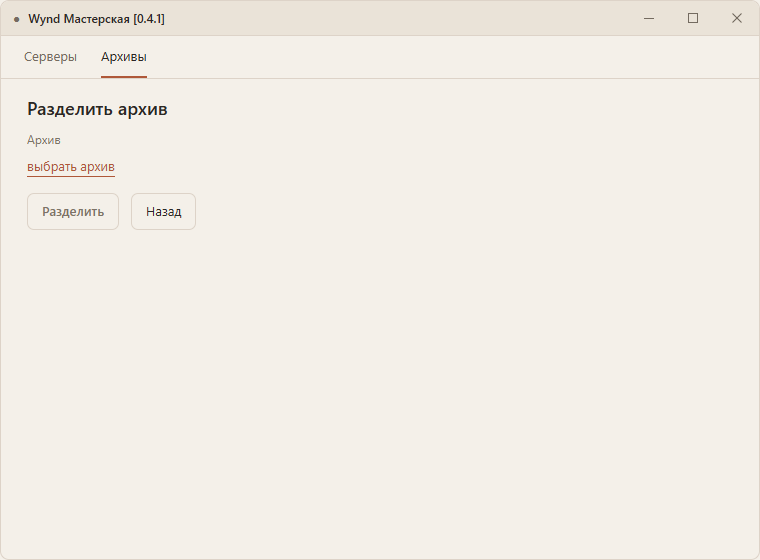
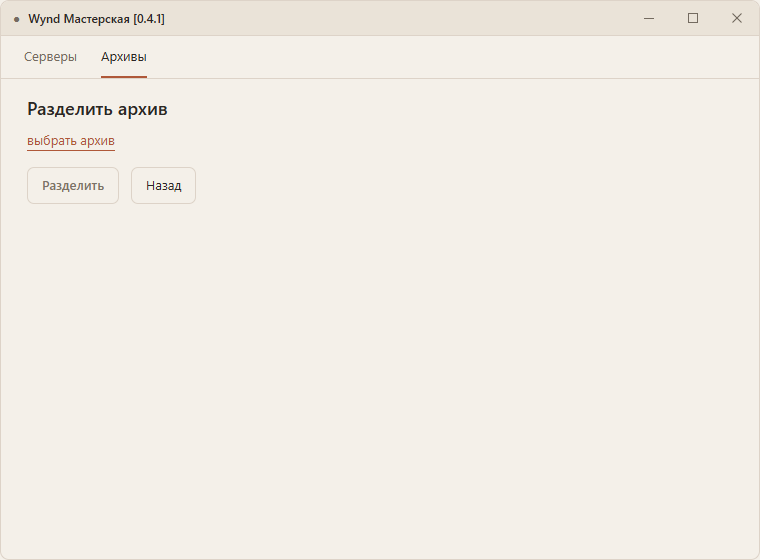
Мастерская: подписи «Архив/Архивы» убраны на экранах выбора архива

Changed region(s): [[0.0303, 0.2429, 0.2421, 0.3946]]

diff --git a/cmd/wynd-workshop/frontend/src/Archives.svelte b/cmd/wynd-workshop/frontend/src/Archives.svelte
@@ -191,7 +191,6 @@
 		{:else if view === 'merge'}
 			<!-- Кадр 11б. -->
 			<h2>Объединить архивы</h2>
-			<Label>Архивы</Label>
 			{#each merge?.files ?? [] as f (f.path)}
 				<FileRow name={f.name} detail={range(f.summary)} error={f.ok ? undefined : f.error}>
 					{#snippet action()}
@@ -226,7 +225,6 @@
 		{:else if view === 'split'}
 			<!-- Кадр 11в. -->
 			<h2>Разделить архив</h2>
-			<Label>Архив</Label>
 			{#if split}
 				<FileRow name={split.file.name} detail={range(split.file.summary)} error={split.file.ok ? undefined : split.file.error}>
 					{#snippet action()}
@@ -275,7 +273,6 @@
 		{:else if view === 'full'}
 			<!-- Кадр 11г. -->
 			<h2>Лента из полного архива круга</h2>
-			<Label>Архив</Label>
 			{#if full?.ok}
 				<FileRow name={full.name ?? ''} detail="весь круг: записи и комментарии всех участников · {size(full.bytes ?? 0)}">
 					{#snippet action()}

diff --git a/docs/plans/46-open-questions-and-debt.plan.md b/docs/plans/46-open-questions-and-debt.plan.md
@@ -106,7 +106,7 @@
 - [ ] **C150. Окно Настольного закрывалось паникой, когда переход отменял ответ сервера (2026-11-27, живая проверка на Linux).** Холодный запуск по ссылке `wynd:` с приглашением: оболочка переставляет адрес iframe, WebKit отменяет начатый ответ, `ReverseProxy` зовёт `ErrorHandler`, а тот при писателе без `http.Hijacker` паниковал `http.ErrAbortHandler`; asset-сервер Wails v3 панику в горутине не перехватывает — процесс умирал. Тем же путём шёл недоступный сервер (C66). **Исправлено 27.11:** при отменённом контексте запроса обработчик молча выходит; без Hijack (asset-сервер Wails) недоступный сервер изображается недоданным телом (`Content-Length: 1`, ноль байт) — WebKit/WebView2 дают сетевой сбой, очередь видит транспортную ошибку. Тесты `TestProxyAbortsWithoutHijacker`, `TestProxyCanceledRequestDoesNotAbort`. Живая проверка 27.11 на Linux: до фикса — паника и закрытие окна, после — экран приглашения и офлайн без падения ([протокол](../testing/linux-desktop-live-2026-11-27.md)). **Вошло в окно 0.5.4** (черновик `desktop-v0.5.4`), ждёт подписи.
 - [ ] **C151. Кнопка «Обновить и перезапустить» в полосе обновления Мастерской крупнее обычной (2026-11-27, замечание владельца по окну 0.4.10).** В полосе A25 кнопка 47,5 px высотой, поля 14 px, радиус 12 px, ширина из телефонных мерок `$ui`; соседняя «Перезапустить» — 36,8 px, поля 8 × 14, радиус 7. Причина: полоса лежит вне `.ins`, поэтому правила `.ins-servers .ins .btn` (8 × 14, радиус 7, 13 px/500) на неё не действуют, а `.selfbar .btn` снимал только `margin` — оставались телефонные значения базового `.btn` (14 px, радиус 12, `calc(100% - 32px)`). **Исправлено 27.11:** `.selfbar .btn` получил мерки обычной кнопки окна, у цветной — рамка `--c` и цвет `--on-c`, как в принятом кадре 10г. Настоящий рендер стенда галереи (1024 × 760, сцена `7a-selfbar`) до/после: высота 47,5 → 36,8, поля 14 → 8 × 14, радиус 12 → 7, шрифт 600 → 500 13 px; svelte-check 0/0, тесты 30/30. **Вёрстка принята владельцем 27.11 («Кнопку Мастерской принимаем»);** в 0.4.11 правки нет, живая проверка — в реестре, §18.
 
-- [ ] **C152. Три экрана выбора архива в Мастерской выглядели по-разному (2026-11-27, замечание владельца по окну 0.4.10).** «Объединить архивы» — подпись «Архивы» и ссылка «+ добавить архив»; «Разделить архив» — подпись «Архив» и рамка-кнопка «Выбрать архив»; «Лента из полного архива круга» — без подписи и с кнопкой «Выбрать файл .wynd». Причина: в утверждённых кадрах 11в/11г (`docs/visual/workshop.html`, 2026-10-24: `621cf55e`, `72e28b68`, `5731559a`; содержимое 11г — `dcb6dd64`) показан уже выбранный файл; пустые состояния при реализации (`a9f60691`) сделали кнопками, а 11б по кадру остался со ссылкой. **Решение владельца 27.11 — «ссылка везде».** В `cmd/wynd-workshop/frontend/src/Archives.svelte`: 11в — кнопка заменена ссылкой «выбрать архив» в `div.ins-more`; 11г — добавлена подпись «Архив» и кнопка заменена ссылкой «выбрать файл .wynd»; 11б не менялся. Заполненные состояния — строки `FileRow` с «другой»/«✕» — не менялись. Новых компонентов нет. В стенд добавлены пустые сцены. Настоящий рендер 760 × 560, DPR 1, светлая тема: подпись 129,5, ссылка 155,5, нижний ряд 193 на всех трёх пустых экранах; в 11в/11г подпись 129,5 и строка 151,5. svelte-check 0/0, `check-workshop-servers.mjs` — 80 кадров, 9 групп, ошибок нет. [Протокол](../testing/workshop-archive-choice-2026-11-27/README.md). **Вёрстка ждёт приёмки владельца;** в 0.57.0 и 0.4.11 правки нет — следующий выпуск Мастерской.
+- [ ] **C152. Три экрана выбора архива в Мастерской выглядели по-разному (2026-11-27, замечание владельца по окну 0.4.10).** «Объединить архивы» — подпись «Архивы» и ссылка «+ добавить архив»; «Разделить архив» — подпись «Архив» и рамка-кнопка «Выбрать архив»; «Лента из полного архива круга» — без подписи и с кнопкой «Выбрать файл .wynd». Владелец 27.11 убрал и сами подписи: они бесполезны. Причина: в утверждённых кадрах 11в/11г (`docs/visual/workshop.html`, 2026-10-24: `621cf55e`, `72e28b68`, `5731559a`; содержимое 11г — `dcb6dd64`) показан уже выбранный файл; пустые состояния при реализации (`a9f60691`) сделали кнопками, а 11б по кадру остался со ссылкой. **Решение владельца 27.11 — «ссылка везде», затем «строчку „Архив/Архивы“ убрать». Итог: ссылка без подписи.** В `cmd/wynd-workshop/frontend/src/Archives.svelte`: 11б — убрана подпись «Архивы»; 11в — убрана подпись «Архив», кнопка заменена ссылкой «выбрать архив» в `div.ins-more`; 11г — кнопка заменена ссылкой «выбрать файл .wynd», подписи нет. Заполненные состояния — строки `FileRow` с «другой»/«✕» — не менялись. Новых компонентов нет. В стенд добавлены пустые сцены. Настоящий рендер 760 × 560, DPR 1, светлая тема: ссылка 129,5 и нижний ряд 167 на всех трёх пустых экранах; в 11в/11г строка файла 125,5, следующий раздел 189,5. svelte-check 0/0, `check-workshop-servers.mjs` — 80 кадров, 9 групп, ошибок нет. [Протокол](../testing/workshop-archive-choice-2026-11-27/README.md). **Вёрстка ждёт приёмки владельца;** в 0.57.0 и 0.4.11 правки нет — следующий выпуск Мастерской.
 - [ ] **C153. Перезапуск окна после самообновления уходил в прежний процесс (2026-11-27, живая проверка, 0.5.2 → 0.5.5).** После «Обновить и перезапустить» exe подменился (рядом остался `.old`), но окно осталось на «Обновляем…»; на машине проверки обновление прошло, а приложения после него не осталось. Причина: `ApplySelfUpdate` запускает новый exe и только потом выходит, а Wails берёт замок одного экземпляра (`SingleInstance: com.wynd.desktop`) в `application.New` — новый запуск видел прежний процесс, передавал ему управление (`OnSecondInstanceLaunch` показывает окно) и завершался; прежний в это время выходил (или оставался на «Обновляем…»). У Мастерской замка нет — там самообновление работает. **Исправлено 27.11:** новый exe до `application.New` проверяет прежний образ рядом (`desktop.FreshlyReplaced(exe)`, файл `.old`) и ждёт 2 с, пока прежний процесс отпустит замок; дальше обычный запуск и уборка `.old` (`CleanOldSelf`). Тест `TestFreshlyReplaced`; `go test ./internal/desktop`, `go vet` и сборка с тегами `desktop,production` — зелёные. Проверено на машине проверки: без `.old` второй запуск при живом первом завершается (как раньше), с `.old` — переживает выход первого и показывает окно 0.5.5. В 0.5.5 правки нет — следующий выпуск окна; живая проверка — в реестре, §20.
 - [ ] **C154. «Назад» с улочки мигал экраном (2026-11-27, замечание владельца).** «Круги → Круг → Назад → Круги → Назад → экран мигает.» Улица — дом вошедшего приложения, но за ней в истории остаётся запись `/` от запуска: корневой экран переводит вошедшего на `/circles`, а «Назад» честно шагает на `/`, где вход снова видит сессию и уводит на `/circles`. Петля: на 17 мс экран «Загрузка…», улица возвращается к 620 мс. **Исправлено 27.11:** `blockedHomeBack` в `web/src/lib/navigation/up.ts` — шаг с `/circles` на `/` (или на запись-копию улицы с тем же поиском) не делается; `navigateBack` не уходит на родителя `/`, системный «Назад» отменяется в `interceptHistoryBack` (SvelteKit сам возвращает запись). Назад на настоящий прошлый экран — настройки, поиск, другой круг, шлюз «Доступ закрыт» (`?closed=`) — не тронут. Тесты `up.test.ts` — 29 (8 новых), svelte-check 0/0, `check:ui`, lint, полный web-прогон — зелёные (737 тестов на общем дереве), build — зелёный. Стенд 412 × 915: после правки адрес уходит на `/` и возвращается внутри отменённого шага, «Загрузки» в трассе нет, строки улицы всё время 3. [Протокол](../testing/street-back-2026-11-27.md). Живая проверка на телефоне — в реестре, §21; в 0.57.0 правки нет — следующий выпуск сервера.
 

diff --git a/docs/testing/workshop-archive-choice-2026-11-27/README.md b/docs/testing/workshop-archive-choice-2026-11-27/README.md
@@ -1,10 +1,11 @@
 # Единый вид выбора файла архива в Мастерской — 27.11.2026
 
 Владелец 27.11 по трём снимкам окна Мастерской 0.4.10: «Три экрана про выбор
-файла архива, но выглядят по-разному. Нужно выработать единый стиль». Выбран
-вариант «ссылка везде»: подпись, под ней подчёркнутая ссылка; выбранный файл —
-строка с «другой». 11б не меняется, 11в и 11г получают ссылку, 11г — подпись
-«Архив».
+файла архива, но выглядят по-разному. Нужно выработать единый стиль». Первая
+редакция — «ссылка везде»: подпись, под ней подчёркнутая ссылка. Владелец в тот
+же день: «Строчку „Архив/Архивы“ убрать. Оно бесполезна.» Итог: без подписи,
+сразу подчёркнутая ссылка; выбранный файл — строка с «другой». На всех трёх
+экранах одинаково.
 
 ## Основа
 
@@ -24,15 +25,16 @@
 `cmd/wynd-workshop/frontend/src/Archives.svelte`, только блок выбора исходного
 файла:
 
-- **11б «Объединить архивы»** — не меняется: подпись «Архивы», строки с «✕»,
-  ссылка «+ добавить архив».
-- **11в «Разделить архив»** — пустое состояние: `Button variant="ghost"`
-  «Выбрать архив» заменена на `TextButton class="link under"` «выбрать архив»
-  в том же `div.ins-more`, что и ссылка 11б. Заполненное состояние не менялось.
-- **11г «Лента из полного архива»** — добавлена подпись `Label` «Архив» над
-  строкой файла; пустое состояние: кнопка «Выбрать файл .wynd» заменена на
-  ссылку «выбрать файл .wynd» в `div.ins-more`. Поле пароля, «Сохранить как»
-  и строка файла не менялись.
+- **11б «Объединить архивы»** — убрана подпись `Label` «Архивы»; строки с
+  «✕» и ссылка «+ добавить архив» не менялись.
+- **11в «Разделить архив»** — убрана подпись `Label` «Архив»; пустое
+  состояние: `Button variant="ghost"` «Выбрать архив» заменена на
+  `TextButton class="link under"` «выбрать архив» в том же `div.ins-more`, что
+  и ссылка 11б. Заполненное состояние не менялось.
+- **11г «Лента из полного архива»** — пустое состояние: кнопка «Выбрать файл
+  .wynd» заменена на ссылку «выбрать файл .wynd» в `div.ins-more`. Поле пароля,
+  «Сохранить как» и строка файла не менялись; подписи `Label` нет — как и до
+  правки.
 
 Новых компонентов `$ui` нет: только `Label`, `FileRow`, `TextButton`, `Button`,
 `FieldLine`. В `cmd/wynd-workshop/frontend/src/gallery/scenes.ts` добавлены
@@ -54,32 +56,33 @@
 
 ## Замеры стенда
 
-| Экран | Подпись, y | Ссылка/строка, y | Нижний ряд, y |
+| Экран | Ссылка/строка, y | Следующий раздел, y | Нижний ряд, y |
 | --- | --- | --- | --- |
-| 11б, пусто | 129,5 | 155,5 (ссылка) | 193 |
-| 11в, пусто | 129,5 | 155,5 (ссылка) | 193 |
-| 11г, пусто | 129,5 | 155,5 (ссылка) | 193 |
-| 11в, файл выбран | 129,5 | 151,5 (строка) | 409,3 |
-| 11г, файл выбран | 129,5 | 151,5 (строка) | 361,5 |
-| 11б, файлы выбраны | 129,5 | 151,5 и 207,5 (строки) | 433,5 |
+| 11б, пусто | 129,5 (ссылка) | — | 167 |
+| 11в, пусто | 129,5 (ссылка) | — | 167 |
+| 11г, пусто | 129,5 (ссылка) | — | 167 |
+| 11в, файл выбран | 125,5 (строка) | 189,5 «Как делить» | 383,3 |
+| 11г, файл выбран | 125,5 (строка) | 189,5 «Пароль архива» | 335,5 |
+| 11б, файлы выбраны | 125,5 и 181,5 (строки) | 245,5 (ссылка), 330,5 «Сохранить как» | 407,5 |
 
-Во всех трёх пустых состояниях подпись, ссылка и нижний ряд стоят на одних
-линиях. В 11в/11г подпись и строка файла тоже совпадают. До правки в 11в
-кнопка была 36,8 px и нижний ряд стоял ниже; в 11г подписи не было.
+Во всех трёх пустых состояниях ссылка и нижний ряд стоят на одних линиях.
+В 11в/11г строка файла тоже на одной линии. До первой правки в 11в стояла
+кнопка 36,8 px и нижний ряд был ниже; в 11б/11в/11г были подписи. Во второй
+редакции подписи убраны, ссылка и строка файла поднялись на их место.
 
 ## Изображения
 
 | Файл | Что | SHA-256 |
 | --- | --- | --- |
[15 lines of base64/hex data omitted]
 
 «До» — снимки владельца; «после» — настоящий рендер стенда.
 
@@ -94,8 +97,9 @@
   `4a-install-rollback`, `5-done-link`, `5-done-nolink`) падают на «нет
   «Установить»» — это не экраны архивов и не следствие правки; сцены не
   трогались.
-- Осмотр кадров: подпись, ссылка и нижний ряд на одних линиях; 11г с подписью
-  совпадает с 11в; заполненные 11б/11в не изменились.
+- Осмотр кадров: подписей «Архив/Архивы» нет; ссылка и нижний ряд на одних
+  линиях во всех трёх пустых состояниях; строка файла в 11в/11г на одной линии;
+  остальное оформление не сдвинулось.
 
 ## Ответ владельца
 

diff --git a/docs/testing/pending-device-checks.md b/docs/testing/pending-device-checks.md
@@ -400,7 +400,7 @@ AAB собирать из `android-v0.1.5` или новее, редакция `
 
 Правка в `main` 27.11; в 0.4.10 и 0.4.11 её нет. Вёрстка ждёт приёмки владельца; проверка — в следующей сборке Мастерской.
 
-- [ ] **Подпись и ссылка на трёх экранах.** В окне Мастерской открыть «Архивы»: «Объединить архивы» — «Архивы» и «+ добавить архив»; «Разделить архив» — «Архив» и ссылка «выбрать архив»; «Лента из полного архива круга» — «Архив» и ссылка «выбрать файл .wynd». После выбора файла — строка с «другой», в 11г подпись «Архив» над строкой. Нижний ряд во всех пустых состояниях на одном уровне. [Разбор — C152 в плане 46](../plans/46-open-questions-and-debt.plan.md), [протокол](workshop-archive-choice-2026-11-27/README.md).
+- [ ] **Ссылка без подписи на трёх экранах.** В окне Мастерской открыть «Архивы»: «Объединить архивы» — сразу ссылка «+ добавить архив»; «Разделить архив» — сразу ссылка «выбрать архив»; «Лента из полного архива круга» — сразу ссылка «выбрать файл .wynd». Строчек «Архив/Архивы» нет ни на одном экране. После выбора файла — строка с «другой» без подписи над ней. Нижний ряд во всех пустых состояниях на одном уровне. [Разбор — C152 в плане 46](../plans/46-open-questions-and-debt.plan.md), [протокол](workshop-archive-choice-2026-11-27/README.md).
 
 ## 20. Перезапуск окна после самообновления (C153)
 
